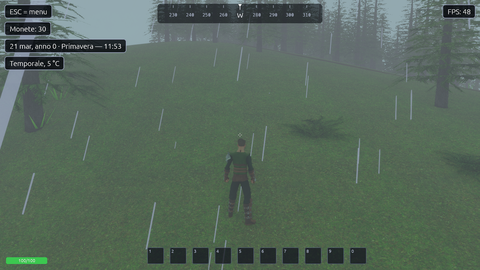
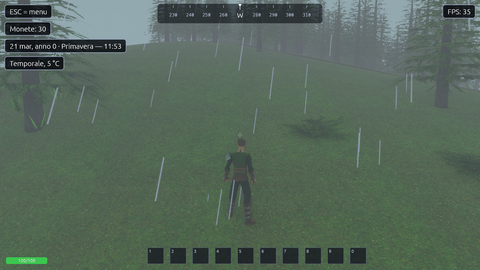
fix(weather): hide rain and snow right in front of the camera; round snowflakes
Particles closer than 2.5 m to the camera are not drawn (they filled the screen as
long bars and big squares); snowflakes are small spheres instead of cubes.

diff --git a/src/weather.rs b/src/weather.rs
@@ -410,6 +410,14 @@ pub fn update_fog(
 const RAIN_POOL: usize = 900;
 const SNOW_POOL: usize = 600;
 const PRECIP_RADIUS: f32 = 15.0;
+/// Le particelle più vicine di così alla camera non si disegnano: a pochi centimetri
+/// dall'obiettivo una goccia o un fiocco riempirebbero mezzo schermo.
+const PRECIP_NEAR: f32 = 2.5;
+
+/// Una particella è troppo vicina alla camera per essere disegnata.
+fn too_close(pos: Vec3, cam: Vec3) -> bool {
+    pos.distance_squared(cam) < PRECIP_NEAR * PRECIP_NEAR
+}
 
 /// Particella di pioggia o neve.
 #[derive(Component)]
@@ -432,7 +440,8 @@ pub fn spawn_precip(
     mut materials: ResMut<Assets<StandardMaterial>>,
 ) {
     let drop = meshes.add(Cuboid::new(0.016, 0.6, 0.016));
-    let flake = meshes.add(Cuboid::new(0.05, 0.05, 0.05));
+    // Fiocco tondo (un cubo da vicino sembrava un quadratino bianco).
+    let flake = meshes.add(Sphere::new(0.018).mesh().ico(1).expect("ico"));
     let drop_mat = materials.add(StandardMaterial {
         base_color: Color::srgba(0.75, 0.82, 0.95, 0.55),
         alpha_mode: AlphaMode::Blend,
@@ -504,8 +513,12 @@ pub fn update_precip(
             p.fresh = true;
             continue;
         }
-        *vis = Visibility::Inherited;
         let pos = tf.translation;
+        *vis = if too_close(pos, cam) {
+            Visibility::Hidden
+        } else {
+            Visibility::Inherited
+        };
         let ground = field.height_at(pos.x, pos.z);
         let out = Vec2::new(pos.x - cam.x, pos.z - cam.z).length() > PRECIP_RADIUS;
         if p.fresh || out || pos.y < ground + 0.02 {
@@ -748,6 +761,14 @@ mod tests {
     fn weather_is_deterministic_per_date() {
         let d = date(10, 3, 2);
         assert_eq!(day_weather(&d), day_weather(&d));
+    }
+
+    #[test]
+    fn precip_near_the_camera_is_hidden() {
+        let cam = Vec3::new(0.0, 5.0, 0.0);
+        assert!(too_close(Vec3::new(0.3, 5.2, -0.5), cam));
+        assert!(!too_close(Vec3::new(0.0, 5.0, -3.0), cam));
+        assert!(!too_close(Vec3::new(8.0, 1.0, 3.0), cam));
     }
 
     #[test]

diff --git a/docs/beta/PIANO-BETA.md b/docs/beta/PIANO-BETA.md
@@ -252,8 +252,7 @@ Suite completa a rotazione (21 copioni, cinque o sei per risoluzione): tutti pas
 
 Trovati guardando le foto (da decidere):
 - **Meteo** (corretto): con nuvoloso, nebbia, pioggia, temporale e neve il sole proiettava ancora **ombre nette** come col sereno. Ora col cielo coperto la luce diretta del sole quasi sparisce (pioggia, temporale, nebbia e neve: sotto l'8%) e la luce del cielo cala meno: niente ombre nette, luce diffusa. Col nuvoloso il sole passa a tratti (circa 30%) e le ombre sono tenui. Il sereno non cambia.
-- **Pioggia**: come per la neve, le gocce vicinissime alla camera diventano lunghe barre bianche.
-- **Neve**: i fiocchi vicini alla camera sono grossi quadrati bianchi.
+- **Neve e pioggia** (corretto): i fiocchi vicini alla camera erano grossi quadrati bianchi e le gocce lunghe barre. Le particelle a meno di 2,5 m dalla camera non si disegnano più (la camera sta 4–5 m dietro al giocatore: davanti a lui pioggia e neve restano visibili) e i fiocchi sono sferette di 3,6 cm invece di cubetti di 5 cm. Resta da decidere: la nevicata sembra rada (pochi fiocchi a schermo, anche per la nebbia).
 - **Interfaccia a 4K** (corretto): l'HUD e i pannelli non si ingrandivano con la risoluzione e a 4K erano minuscoli. Ora c'è la scala dell'interfaccia, automatica di base: 1 fino a 1080 righe (dopo il ridimensionamento del sistema), poi cresce (1440p ×1,33, 4K ×2), così a 1080p, 1440p e 4K l'interfaccia occupa la stessa parte dello schermo. Nelle impostazioni (Gioco) si può scegliere 75–200%. Targhette, fumetti, mappa e debug dei piazzamenti tengono conto della scala. Provato con `interfaccia` alle quattro risoluzioni; riferimenti dei copioni a 1440p e 4K rifatti.
 - **Negozio e mobili**: a 1440p il 1% peggiore è sceso a 10 FPS (un intoppo all'apertura di un pannello o del negozio): da guardare nella fase delle prestazioni.
 - **Memoria video**: un altro modello di Ollama (`ornith-1.5:35b-256k`, 9,4 GB) occupava la scheda e il gioco andava in «Out of Memory» anche a 720p. Scaricato con il permesso dell'utente; succederà di nuovo ogni volta che quel modello è in memoria.

diff --git a/CHANGELOG.md b/CHANGELOG.md
@@ -4,6 +4,7 @@ Formato versione: `vMAJOR.MINOR.FEATURE.BUGFIX` (vedi [docs/VERSIONING.md](docs/
 
 ## Non rilasciato
 
+- **Pioggia e neve**: niente più gocce come lunghe barre e fiocchi come grossi quadrati davanti alla camera; i fiocchi sono tondi.
 - **Scala dell'interfaccia**: a 1440p e 4K l'interfaccia si ingrandisce da sola (×1,33 e ×2) invece di restare minuscola; nelle impostazioni (Gioco → Scala interfaccia) si sceglie Automatica o 75–200%. Targhette, fumetti e mappa restano al loro posto.
 - **Meteo, ombre**: col cielo coperto (pioggia, temporale, nebbia, neve) il sole non proietta più ombre nette: la luce diretta quasi sparisce e quella del cielo diventa diffusa. Col nuvoloso le ombre sono tenui. Il sereno non cambia.
 - **Sottotetti**: la rampa finiva contro il muretto e in soffitta non si saliva; ora finisce prima e c'è il percorso fino in cima.
